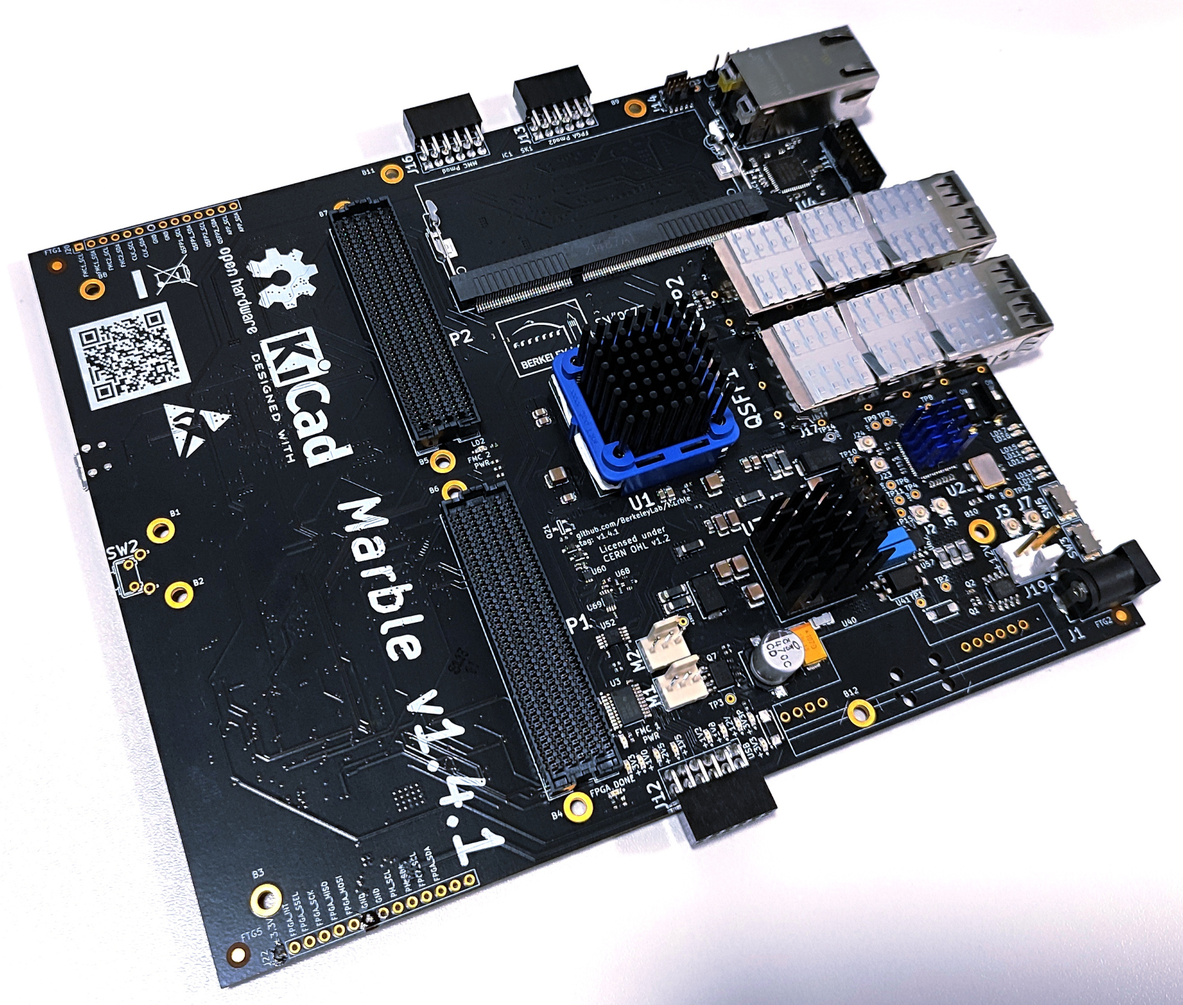
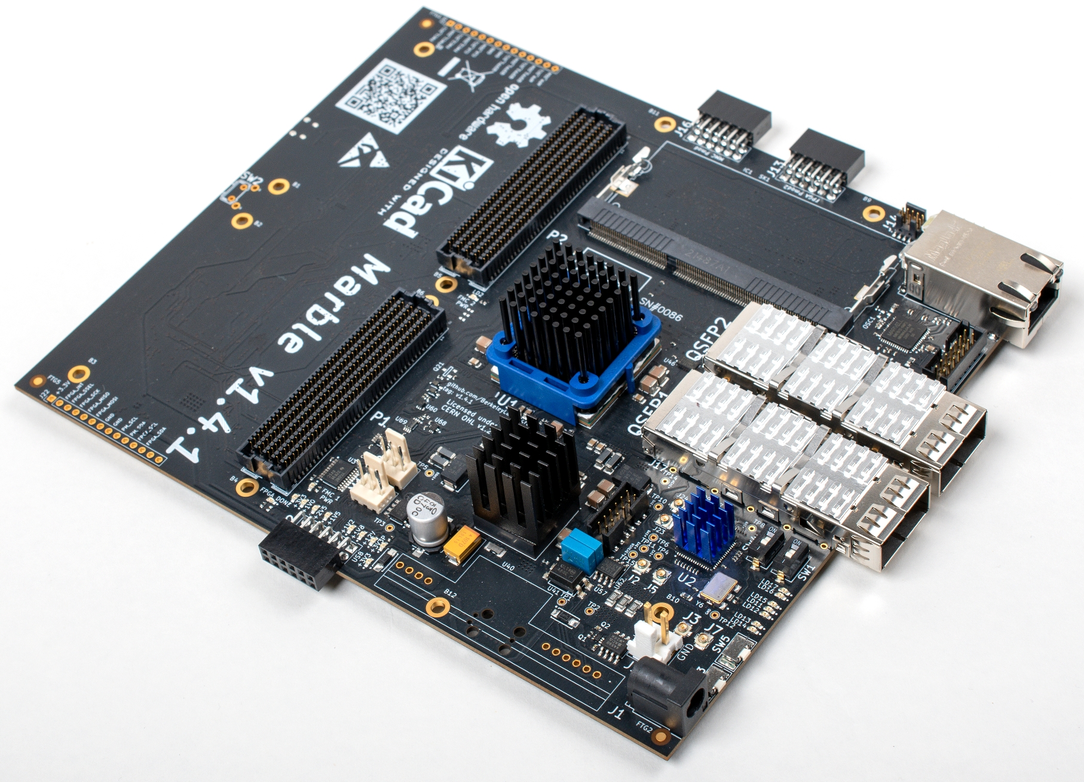
Cropping/scaling and converting PNG to JPG for file size

diff --git a/README.md b/README.md
@@ -2,7 +2,7 @@
 
 Marble is a dual FMC FPGA carrier board developed for general purpose use in particle accelerator electronics instrumentation. It is currently under development and the base platform for two accelerator projects at DOE: ALS-U (the Advanced Light Source Upgrade at LBNL) and LCLS-II HE (the Linac Coherent Light Source II High Energy upgrade).
 
-![marble](docs/marble.png)
+![marble](docs/marble.jpg)
 
 The design responds to deployment needs in an accelerator environment: reliability, ability to be remotely programmed, safety watchdog, self monitoring, etc. It is intended to be the base digital design for instrumentation electronics, with the capability of connecting to different I/O or analog front ends through the FMC connectors. It targets cost-effectiveness for deployments of hundreds of units. It is based on a Network Attached Device (NAD) approach, where high-speed serial links serve as the communication backbone with other systems in the accelerator.
 
